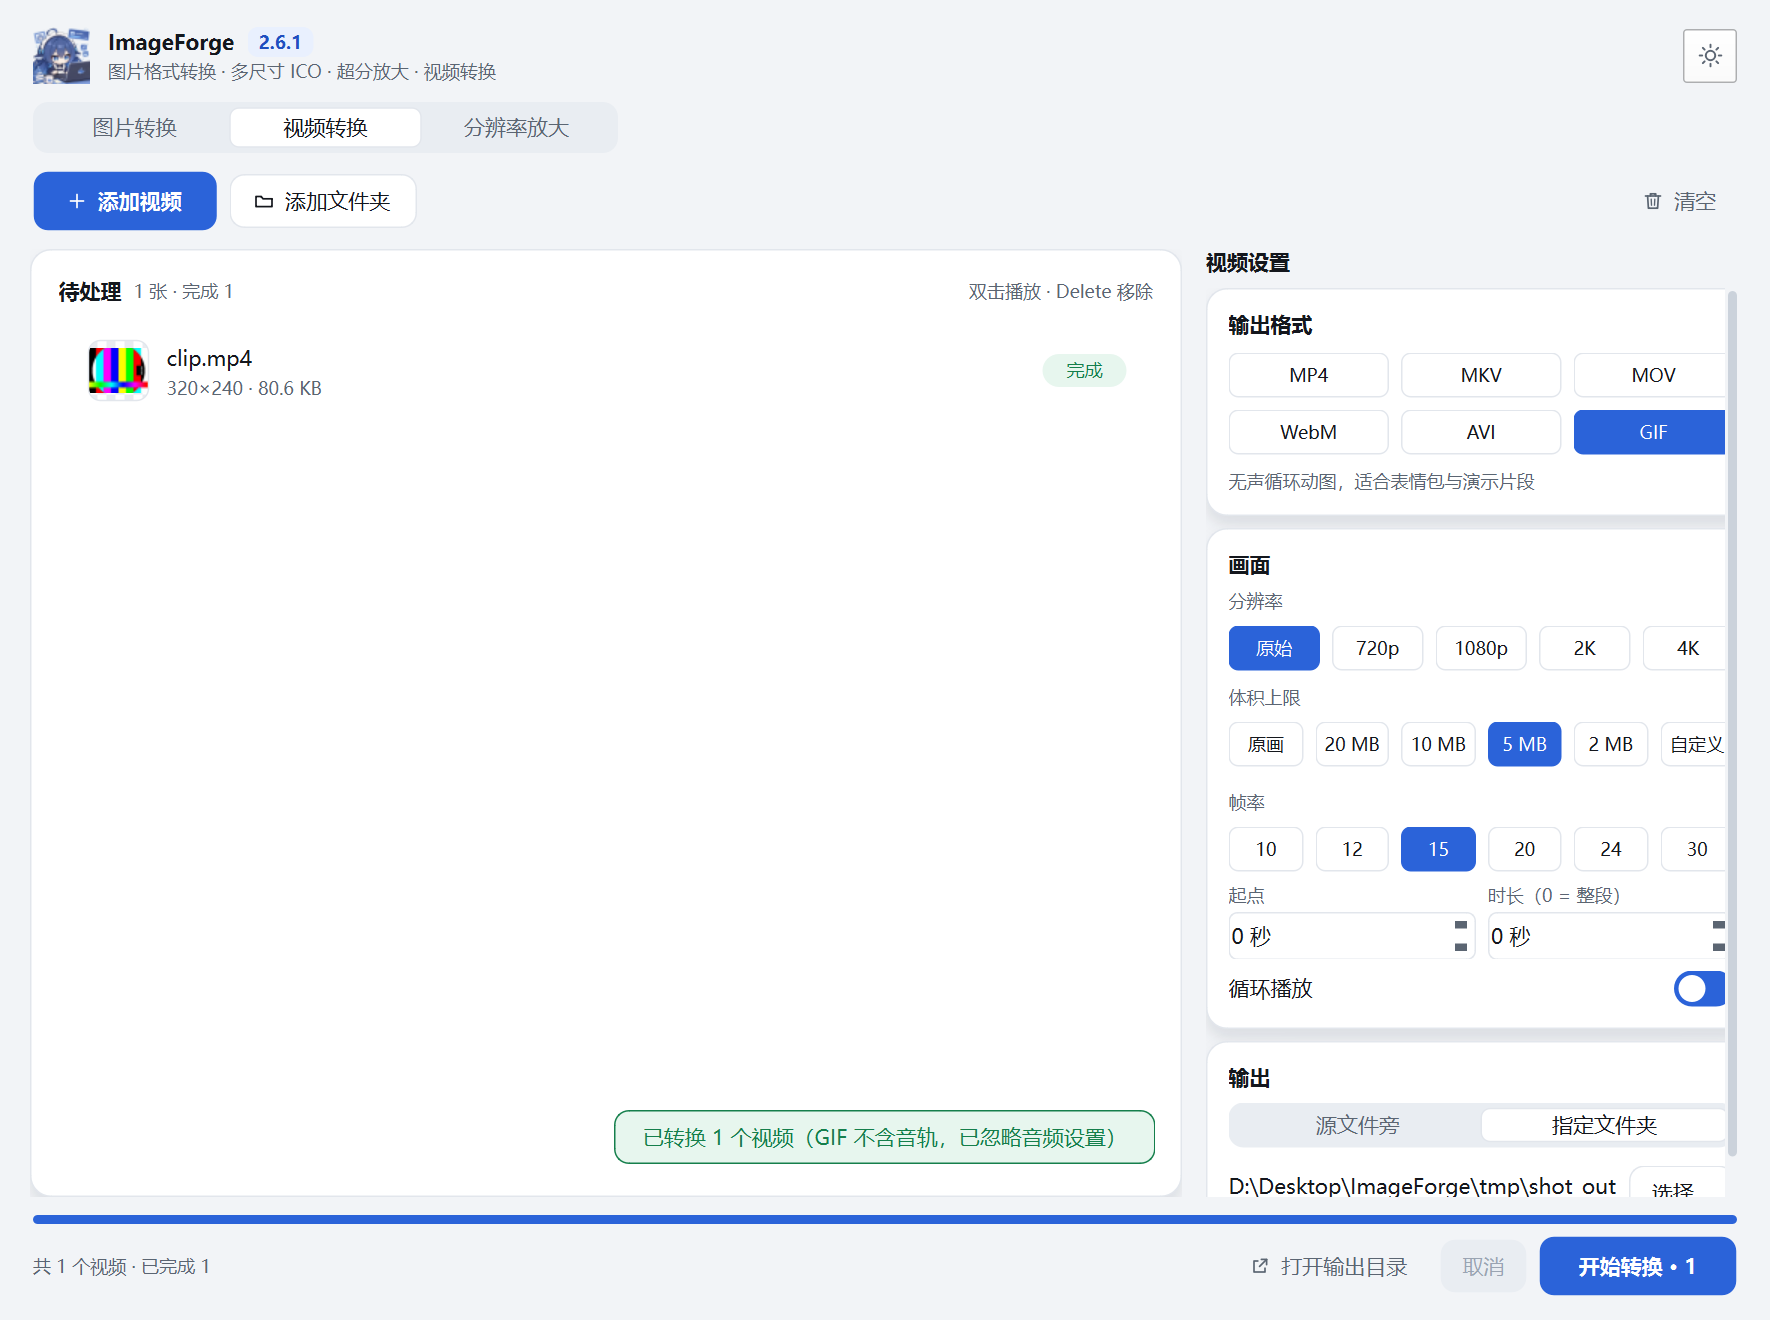
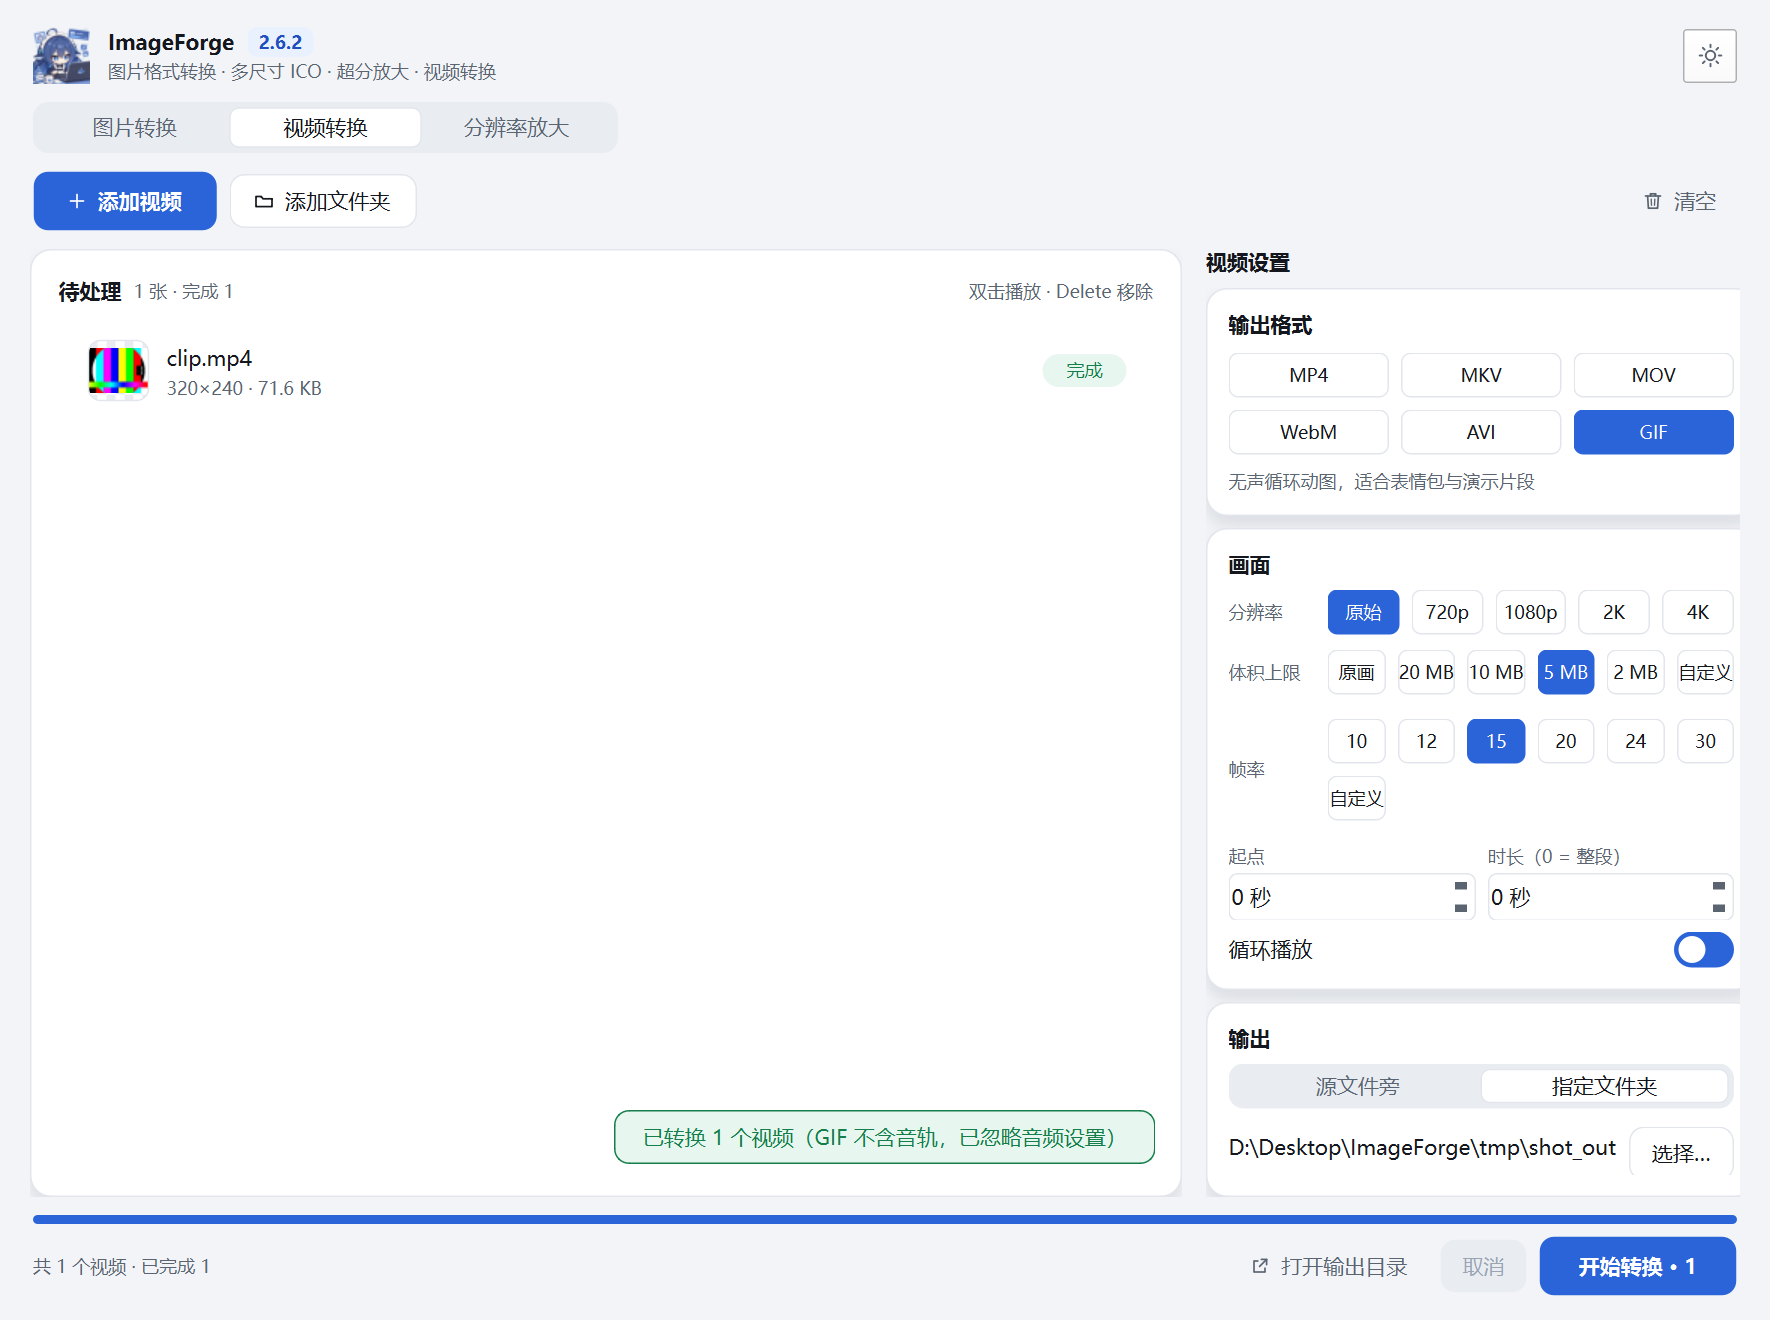
feat(gif): 体积上限清晰度再提升（2% 细阶梯 + 去重复帧 + 全局调色板），帧率支持自定义

Changed region(s): [[0.6836, 0.2174, 0.9944, 0.9008], [0.7768, 0.6212, 0.9322, 0.7144], [0.9322, 0.8697, 0.9633, 0.9008]]

diff --git a/imgforge/qt/video_panel.py b/imgforge/qt/video_panel.py
@@ -39,7 +39,9 @@ RESOLUTION_OPTIONS = [
     ("1440p", "2K"),
     ("2160p", "4K"),
 ]
-FPS_OPTIONS = [(str(value), f"{value}") for value in (10, 12, 15, 20, 24, 30)]
+FPS_OPTIONS = [(str(value), f"{value}") for value in (10, 12, 15, 20, 24, 30)] + [
+    ("custom", "自定义"),
+]
 SIZE_OPTIONS = [("0", "原画"), ("20", "20 MB"), ("10", "10 MB"), ("5", "5 MB"), ("2", "2 MB"), ("custom", "自定义")]
 SIZE_PRESETS_MB = (0, 20, 10, 5, 2)
 OUT_OPTIONS = [("same", "源文件旁"), ("folder", "指定文件夹")]
@@ -115,15 +117,35 @@ class VideoPanel(QWidget):
         card.body.addWidget(self.quality_row)
         return card
 
+    def _caption_row(
+        self, text: str, control: QWidget, *, hint: str = "", align_top: bool = False
+    ) -> QWidget:
+        """「左侧短标签 + 右侧控件」同一行（省掉一整行标签的高度，360px 面板里很关键）。
+
+        ``align_top``：控件会折成多行时把标签顶到第一行，避免垂直居中显得漂浮。
+        """
+        row = QWidget()
+        layout = QHBoxLayout(row)
+        layout.setContentsMargins(0, 0, 0, 0)
+        layout.setSpacing(10)
+        label = QLabel(text)
+        label.setObjectName("Caption")
+        label.setFixedWidth(56)
+        if hint:
+            label.setToolTip(hint)
+        layout.addWidget(label)
+        layout.addWidget(control, 1)
+        if align_top:
+            layout.setAlignment(label, Qt.AlignmentFlag.AlignTop | Qt.AlignmentFlag.AlignLeft)
+            label.setContentsMargins(0, 6, 0, 0)
+        return row
+
     def _build_picture_card(self) -> Card:
         card = Card(self.theme, padding=14, spacing=8)
         card.body.addWidget(SectionHeader(self.theme, "画面"))
-        label = QLabel("分辨率")
-        label.setObjectName("Caption")
-        card.body.addWidget(label)
         self.resolution_group = ChipGroup(self.theme, RESOLUTION_OPTIONS, columns=5, compact=True)
         self.resolution_group.valueChanged.connect(lambda _v: self._emit())
-        card.body.addWidget(self.resolution_group)
+        card.body.addWidget(self._caption_row("分辨率", self.resolution_group))
 
         # ---- GIF 专属 ----
         self.gif_box = QWidget()
@@ -131,18 +153,20 @@ class VideoPanel(QWidget):
         gif_layout.setContentsMargins(0, 2, 0, 0)
         gif_layout.setSpacing(8)
 
-        size_label = QLabel("体积上限")
-        size_label.setObjectName("Caption")
-        gif_layout.addWidget(size_label)
         self.size_group = ChipGroup(self.theme, SIZE_OPTIONS, columns=6, compact=True)
         self.size_group.valueChanged.connect(self._on_size_changed)
-        gif_layout.addWidget(self.size_group)
+        gif_layout.addWidget(
+            self._caption_row(
+                "体积上限",
+                self.size_group,
+                hint="GIF 自动压缩到目标体积：优先保住分辨率（文字尽量清晰），再降帧率与颜色数，数值越大越清晰",
+            )
+        )
 
         size_row = QWidget()
         size_layout = QHBoxLayout(size_row)
         size_layout.setContentsMargins(0, 0, 0, 0)
         size_layout.setSpacing(8)
-        size_label.setToolTip("GIF 超过自动压缩到目标体积：优先保住分辨率（文字尽量清晰），再降帧率与颜色数，数值越大越清晰")
         self.max_mb_spin = QSpinBox()
         self.max_mb_spin.setRange(1, 2000)
         self.max_mb_spin.setSuffix(" MB")
@@ -153,12 +177,23 @@ class VideoPanel(QWidget):
         size_layout.addWidget(self.max_mb_spin)
         gif_layout.addWidget(size_row)
 
-        fps_label = QLabel("帧率")
-        fps_label.setObjectName("Caption")
-        gif_layout.addWidget(fps_label)
         self.fps_group = ChipGroup(self.theme, FPS_OPTIONS, columns=6, compact=True)
-        self.fps_group.valueChanged.connect(lambda _v: self._emit())
-        gif_layout.addWidget(self.fps_group)
+        self.fps_group.valueChanged.connect(self._on_fps_changed)
+        gif_layout.addWidget(self._caption_row("帧率", self.fps_group, align_top=True))
+
+        fps_row = QWidget()
+        fps_layout = QHBoxLayout(fps_row)
+        fps_layout.setContentsMargins(0, 0, 0, 0)
+        fps_layout.setSpacing(8)
+        self.fps_spin = QSpinBox()
+        self.fps_spin.setRange(1, 60)
+        self.fps_spin.setSuffix(" fps")
+        self.fps_spin.setFixedHeight(30)
+        self.fps_spin.setFixedWidth(92)
+        self.fps_spin.valueChanged.connect(self._on_fps_value_changed)
+        fps_layout.addStretch(1)
+        fps_layout.addWidget(self.fps_spin)
+        gif_layout.addWidget(fps_row)
 
         range_row = QWidget()
         range_layout = QHBoxLayout(range_row)
@@ -243,10 +278,15 @@ class VideoPanel(QWidget):
         if resolution not in dict(RESOLUTION_OPTIONS):
             resolution = "source"
         self.resolution_group.set_value(resolution)
-        fps = str(int(s["video_fps"]))
-        if fps not in dict(FPS_OPTIONS):
-            fps = "15"
-        self.fps_group.set_value(fps)
+        fps_value = max(1, min(60, int(s["video_fps"])))
+        fps = str(fps_value)
+        if fps in dict(FPS_OPTIONS) and fps != "custom":
+            self.fps_group.set_value(fps)
+        else:
+            self.fps_group.set_value("custom")
+            self.fps_spin.blockSignals(True)
+            self.fps_spin.setValue(fps_value)
+            self.fps_spin.blockSignals(False)
         max_bytes = max(0, int(s["video_max_bytes"]))
         self.max_mb_spin.setValue(max(1, round(max_bytes / (1024 * 1024))) if max_bytes else 8)
         preset = "0" if not max_bytes else str(round(max_bytes / (1024 * 1024)))
@@ -273,7 +313,7 @@ class VideoPanel(QWidget):
         s["video_target"] = self.target_group.value() or "mp4"
         s["video_quality"] = int(self.quality_row.value())
         s["video_resolution"] = self.resolution_group.value() or "source"
-        s["video_fps"] = int(self.fps_group.value() or 15)
+        s["video_fps"] = self._current_fps()
         s["video_start"] = int(self.start_spin.value())
         s["video_duration"] = int(self.duration_spin.value())
         s["video_loop"] = self.loop_switch.isChecked()
@@ -292,6 +332,34 @@ class VideoPanel(QWidget):
             return 0
         mb = self.max_mb_spin.value() if value == "custom" else int(value)
         return int(mb) * 1024 * 1024
+
+    def _current_fps(self) -> int:
+        """当前帧率：预设档直接取值，自定义档取输入框。"""
+        value = self.fps_group.value() or "15"
+        if value == "custom":
+            return max(1, min(60, int(self.fps_spin.value())))
+        try:
+            return max(1, min(60, int(value)))
+        except ValueError:
+            return 15
+
+    def _on_fps_changed(self, value: str) -> None:
+        if value != "custom":
+            self.fps_spin.blockSignals(True)
+            self.fps_spin.setValue(int(value))
+            self.fps_spin.blockSignals(False)
+        self._sync_visibility()
+        self._emit()
+
+    def _on_fps_value_changed(self, value: int) -> None:
+        # 手动改成与预设相同的值时，自动切回预设，避免下拉与数值打架。
+        current = self.fps_group.value() or "custom"
+        if current != "custom" and str(value) != current:
+            self.fps_group.blockSignals(True)
+            self.fps_group.set_value(str(value) if str(value) in dict(FPS_OPTIONS) else "custom")
+            self.fps_group.blockSignals(False)
+        self._sync_visibility()
+        self._emit()
 
     def _on_size_changed(self, value: str) -> None:
         if value not in ("0", "custom"):
@@ -340,6 +408,7 @@ class VideoPanel(QWidget):
         self.quality_row.setVisible(not is_gif)
         self.gif_box.setVisible(is_gif)
         self.max_mb_spin.setVisible((self.size_group.value() or "0") == "custom")
+        self.fps_spin.setVisible((self.fps_group.value() or "15") == "custom")
         self.audio_row.setVisible(not is_gif)
         self.note_label.setText(NOTE_OVERRIDES.get(target, f"{spec.note} · 输出 {spec.ext}"))
         self._refresh_out_label()
@@ -349,6 +418,7 @@ class VideoPanel(QWidget):
         for group in (self.target_group, self.resolution_group, self.fps_group, self.size_group):
             group.set_enabled(enabled)
         self.max_mb_spin.setEnabled(enabled)
+        self.fps_spin.setEnabled(enabled)
         self.quality_row.slider.setEnabled(enabled)
         self.audio_row.setEnabled(enabled)
         self.loop_switch.setEnabled(enabled)
@@ -367,7 +437,7 @@ class VideoPanel(QWidget):
             target=spec.key,
             quality=int(self.quality_row.value() if spec.kind != "gif" else 100),
             resolution=self.resolution_group.value() or "source",
-            fps=int(self.fps_group.value() or 15),
+            fps=self._current_fps(),
             start=int(self.start_spin.value()),
             duration=int(self.duration_spin.value()),
             loop=self.loop_switch.isChecked(),

diff --git a/imgforge/video.py b/imgforge/video.py
@@ -565,23 +565,26 @@ def _not_lighter(candidate: _GifRung, previous: _GifRung) -> bool:
     return all(cur >= prev for cur, prev in pairs)
 
 
-_GIF_FIT_WIDTHS: tuple[float, ...] = (
-    1.0, 0.95, 0.90, 0.85, 0.80, 0.75, 0.70, 0.65,
-    0.60, 0.55, 0.50, 0.45, 0.40, 0.35, 0.30, 0.25,
+# 2% 一档的细阶梯：20 MB 这类「刚好差一点」的目标下，5% 的粗阶梯会白白浪费
+# 一大截预算（实测 1536 → 1696 之间还有 10% 的清晰度空间可捡）。
+_GIF_FIT_WIDTHS: tuple[float, ...] = tuple(
+    round(1.0 - 0.02 * step, 2) for step in range(36)  # 1.00, 0.98, …, 0.30
 )
-_GIF_FIT_FPS: tuple[int, ...] = (15, 12, 10, 8, 6, 5, 4)
+_GIF_FIT_FPS: tuple[int, ...] = (12, 10, 8, 6)   # 低于 6 fps 会有明显幻灯片感，宁可换分辨率
 _GIF_FIT_COLORS: tuple[int, ...] = (64, 32)
-_MAX_GIF_FIT_STEPS = 6       # 最多真的编码几档（预测已把起点压到目标附近）
+_MAX_GIF_FIT_STEPS = 6           # 最多真的编码几档（预测已把起点压到目标附近）
+_GIF_PROMOTE_STEPS = 1           # 命中后最多再回试几档更清晰的（每档约 8–10 秒）
+_GIF_PROMOTE_THRESHOLD = 0.96    # 只用到上限的 96% 以下才回试，留 4% 余量防抖动
 
 
 def _gif_score(width: int, fps: int, colors: int) -> float:
     """档位「清晰度」评分：分辨率优先，帧率次之，色数只做轻微加权。
 
     讲解类视频里，文字能不能看清几乎完全由分辨率决定，帧率只影响「顺不顺」；
-    所以宽度的权重最高（线性），帧率给 0.45 次方，色数只给 0.12 次方
-    （64 色比 32 色真正多用的字节并不多，但能明显减少暗部色带）。
+    所以宽度权重最高（线性），帧率只给 0.20 次方（6 fps 是兜底下限），
+    色数只给 0.10 次方（32 色在深色背景上已足够，把预算留给分辨率收益更大）。
     """
-    return width * (fps ** 0.30) * ((colors / 32.0) ** 0.25)
+    return width * (fps ** 0.20) * ((colors / 32.0) ** 0.10)
 
 
 def _gif_fit_ladder(plan: _Plan) -> list[_GifRung]:
@@ -606,7 +609,16 @@ def _gif_fit_ladder(plan: _Plan) -> list[_GifRung]:
                 continue
             for colors in _GIF_FIT_COLORS:
                 rungs.append(
-                    _GifRung(width, fps, colors, "bayer" if colors >= 256 else "none")
+                    _GifRung(
+                        width,
+                        fps,
+                        colors,
+                        "bayer" if colors >= 256 else "none",
+                        # 讲解/录屏类素材里大量帧几乎静止，dedupe 能省 30–60% 体积，
+                        # 省下来的预算全部换成清晰度；同时用全局调色板进一步压缩。
+                        dedupe=True,
+                        denoise=True,
+                    )
                 )
     rungs.sort(key=lambda r: _gif_score(r.width or source_width, r.fps, r.colors), reverse=True)
     return rungs
@@ -617,7 +629,7 @@ _PREDICT_FPS = 10             # 预测用的试编码帧率
 _PREDICT_COLORS = 64          # 预测用的调色板色数
 _PREDICT_SAMPLE = 2.5         # 预测用的采样时长（秒）
 _PREDICT_AREA_EXP = 3.7       # 体积随宽度增长的指数（实测噪声/细节丰富的素材近似三次以上）
-_PREDICT_SAFETY = 0.98        # 预测用样片略偏保守，乘 0.82 后留 2% 余量
+_PREDICT_SAFETY = 1.12        # 样片取自 35% 处、比全片平均更复杂，允许预测略超（真实验证兜底）
 
 
 def _predict_gif_rung(
@@ -1305,20 +1317,22 @@ def _encode_gif_fit(
                 _discard(temp)  # 降档后反而更大（调色板/抖动导致），丢弃这一档
             if size <= plan.max_bytes:  # 命中目标体积
                 outcome.within_limit = True
-                # 命中得比较轻松（不到上限的 85%）说明还有余量，回头把更高评分
-                # （更清晰）的档位逐级试一遍，能装下就换成更好的；最多回溯 3 档，
-                # 保证总耗时可控。
-                if size <= plan.max_bytes * 0.85:
-                    for back in range(1, 2):
-                        if index - back < 0:
-                            break
-                        status2, size2 = encode(rungs[index - back], index - back)
-                        if status2 == "ok" and size2 <= plan.max_bytes:
-                            _discard(candidate)
-                            candidate, outcome.rung, outcome.bytes = (
-                                temps[-1], rungs[index - back], size2
-                            )
-                            break
+                # 命中得比较轻松（未用满上限的 97%）说明还有余量，回头把更高评分
+                # （更清晰）的档位逐级试一遍，能装下就换成更好的；最多回试 3 档，
+                # 保证总耗时可控（每档约 8–10 秒）。
+                back = 0
+                while (
+                    index - back - 1 >= 0
+                    and back < _GIF_PROMOTE_STEPS
+                    and size <= plan.max_bytes * _GIF_PROMOTE_THRESHOLD
+                ):
+                    back += 1
+                    status2, size2 = encode(rungs[index - back], index - back)
+                    if status2 != "ok" or size2 > plan.max_bytes:
+                        continue  # 这一档装不下，继续往更清晰的档位试
+                    _discard(candidate)
+                    candidate = temps[-1]
+                    outcome.rung, outcome.bytes, size = rungs[index - back], size2, size2
                 break
         if candidate is not None:
             outcome.path = candidate  # 命中档，或全部不达标时最小的一档

diff --git a/tests/test_video.py b/tests/test_video.py
@@ -397,11 +397,14 @@ class VideoTest(unittest.TestCase):
         rungs = video._gif_fit_ladder(plan)
         self.assertGreater(len(rungs), 50)
         self.assertEqual(rungs[0].width, 1920)
-        self.assertEqual(rungs[0].fps, 15)
+        self.assertEqual(rungs[0].fps, video._GIF_FIT_FPS[0])
+        self.assertEqual(video._GIF_FIT_FPS, (12, 10, 8, 6))
         scores = [video._gif_score(r.width or 1920, r.fps, r.colors) for r in rungs]
         self.assertEqual(scores, sorted(scores, reverse=True))
         # 宽 / 帧率 / 色数都是单调不增的组合，不会出现「更小反而排更前」
         self.assertTrue(all(32 <= r.colors <= 64 for r in rungs))
+        # 自动压缩的档位一律开启去重复帧 + 去噪（实测能省 30–60% 体积）
+        self.assertTrue(all(r.dedupe and r.denoise for r in rungs))
 
     def test_gif_filter_denoise_and_area(self) -> None:
         """去噪与 area 缩放默认开启（体积能省 25% 以上，文字边缘基本不受影响）。"""

diff --git a/imgforge/version.py b/imgforge/version.py
@@ -2,7 +2,7 @@
 
 from __future__ import annotations
 
-__version__ = "2.6.1"
+__version__ = "2.6.2"
 
 # PyInstaller 的 VSVersionInfo 需要四段数字。
 VERSION_TUPLE = tuple(int(part) for part in __version__.split(".")) + (0,)
